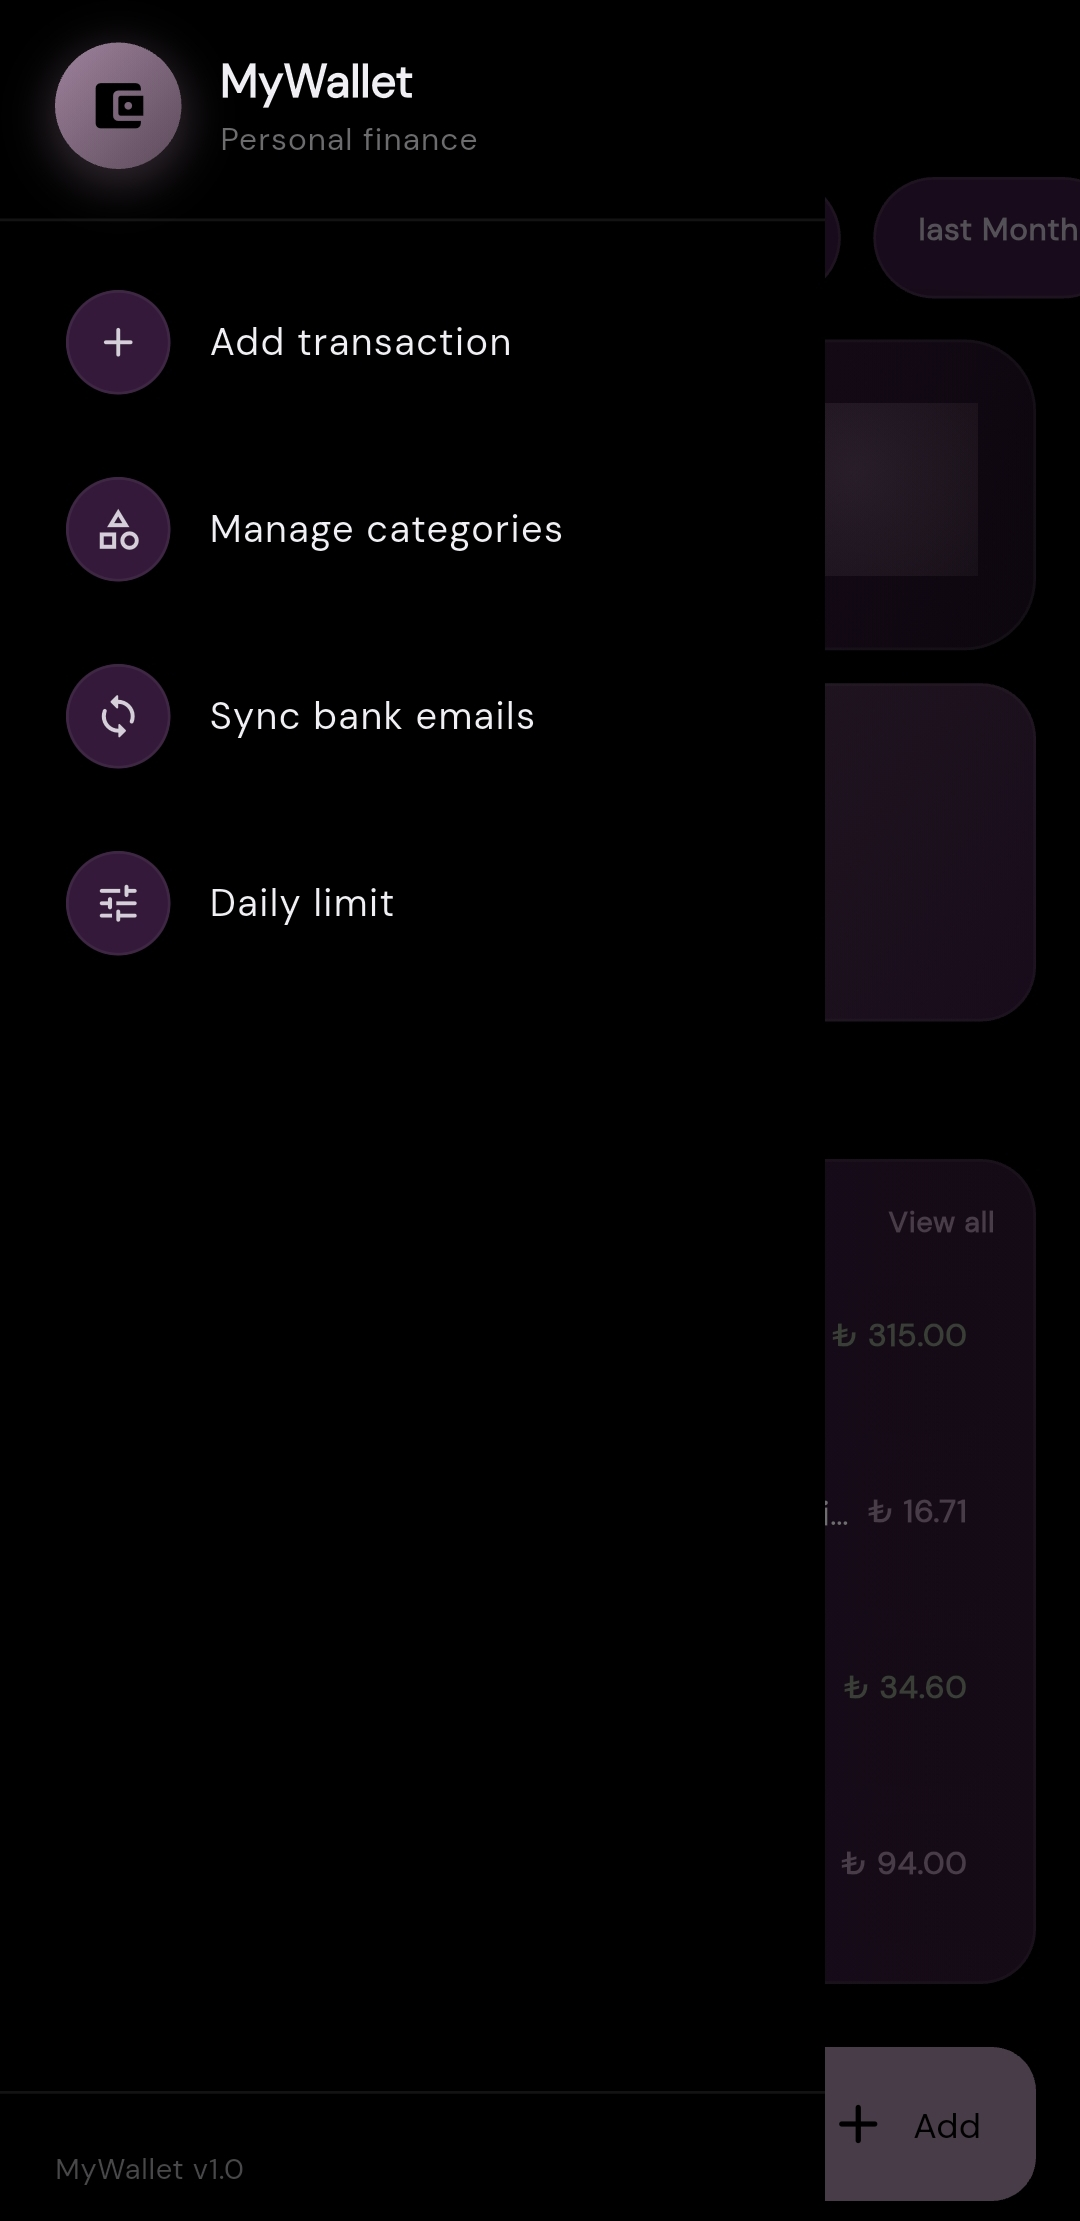
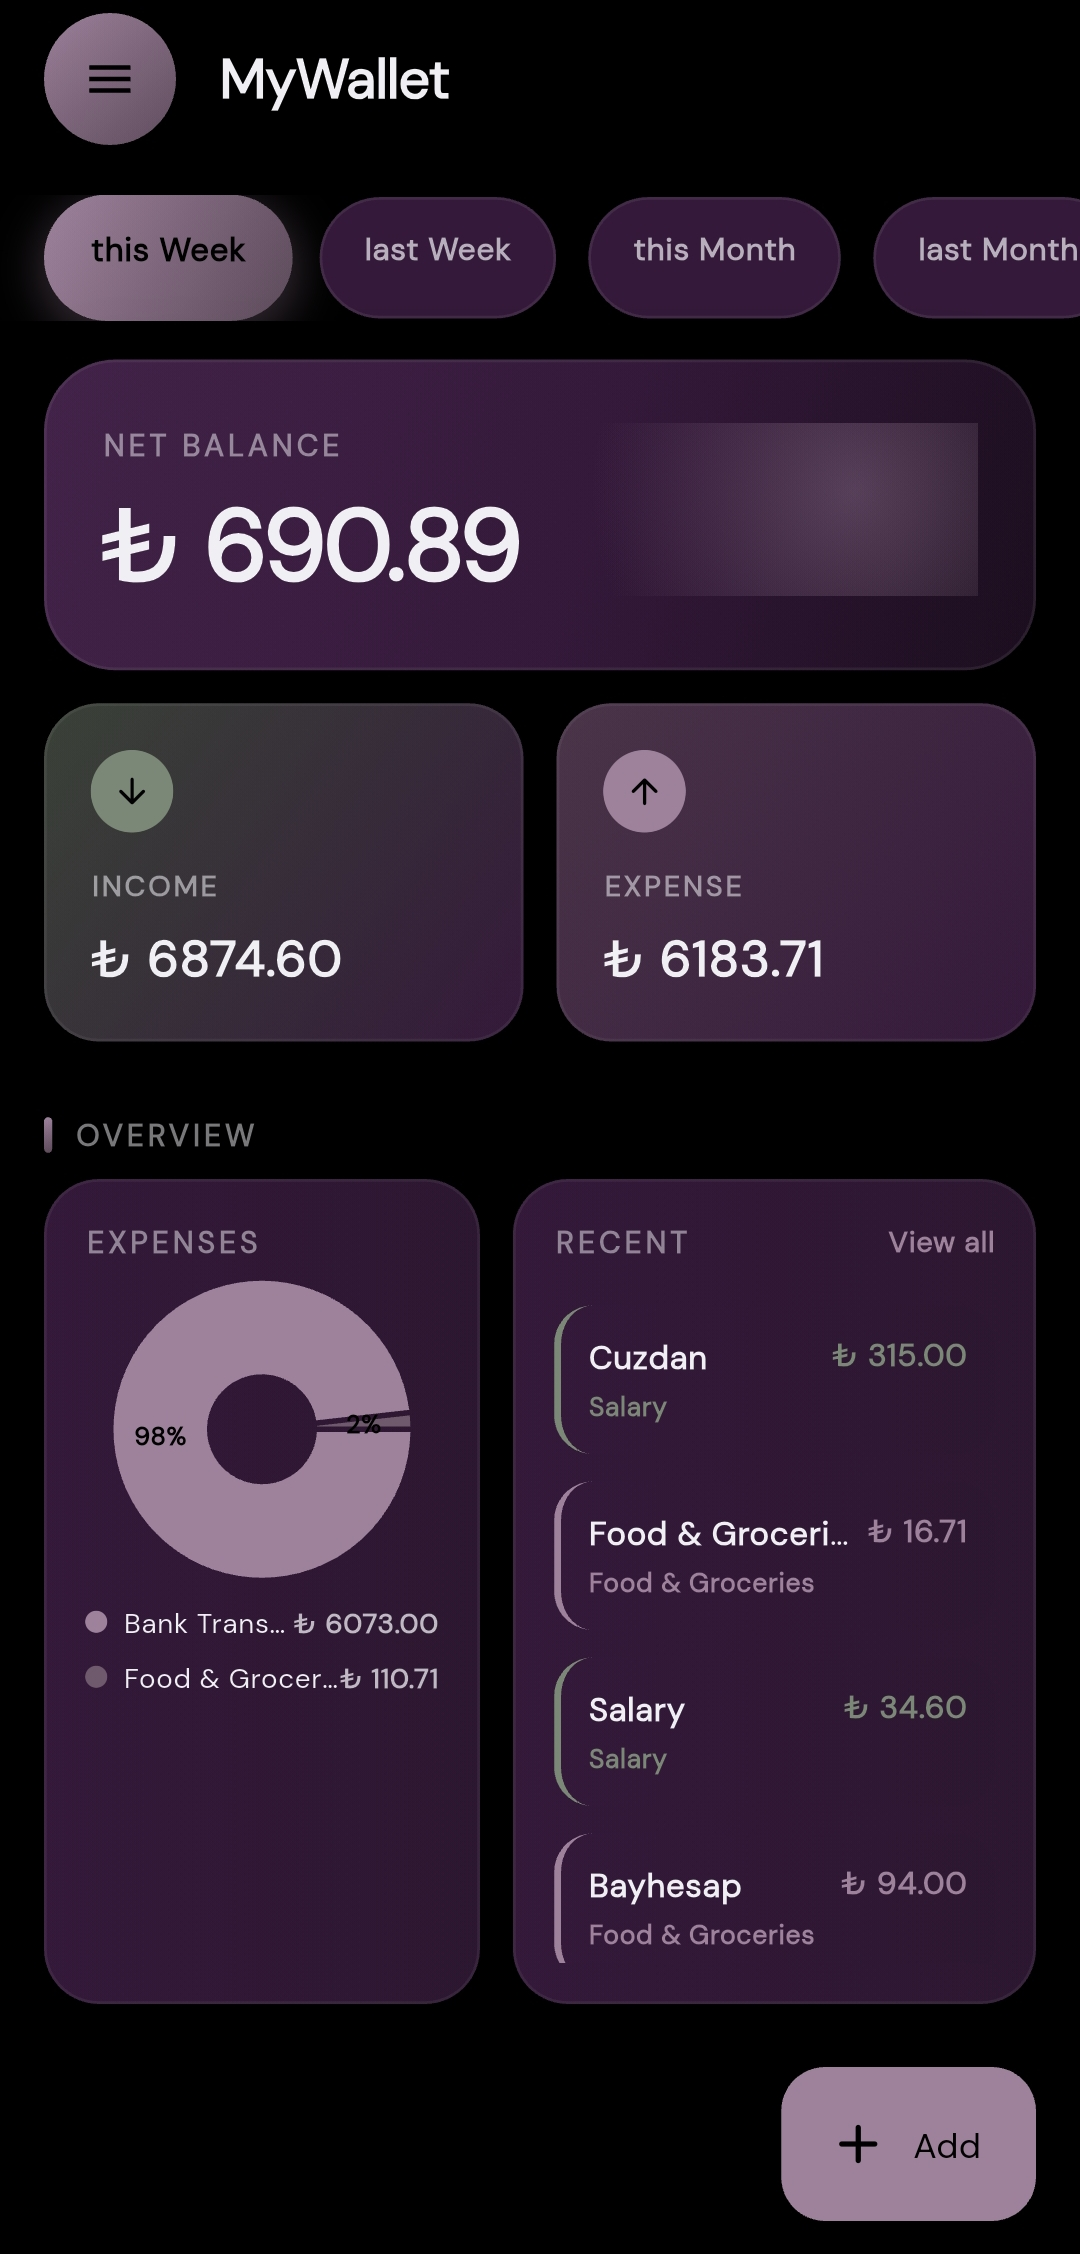
Initial commit: Ziraat bank IMAP parser, SQLite integration, and Riverpod UI

diff --git a/README.md b/README.md
@@ -1,17 +1,55 @@
-# mywallet
+# MyWallet - Ziraat Bank Automation 🏦📈
 
-A new Flutter project.
+A robust, offline-first personal finance tracker built with Flutter. MyWallet automates the tedious process of manual expense tracking by securely parsing unread bank transaction emails via IMAP, categorizing them, and updating a reactive dashboard in real-time.
 
-## Getting Started
+## ✨ Key Features
 
-This project is a starting point for a Flutter application.
+* **Automated Data Pipeline:** Integrates an IMAP client to fetch and securely read automated bank emails (Ziraat Bankası) entirely on the device.
+* **Smart Regex Parsing:** Sanitizes raw, unstructured HTML emails and extracts precise transaction data (Dates, Minor/Major Units, Senders/Receivers, FAST transfers) using strict Regular Expressions.
+* **Local Persistence Sandbox:** Utilizes an isolated SQLite database to store transactions and custom user categories offline, ensuring complete data privacy.
+* **Reactive Architecture:** Built on a Riverpod state management foundation. The UI, data repository layer, and background parsers remain perfectly synchronized without requiring manual state refreshes.
+* **Dynamic Categorization Engine:** Automatically intercepts, maps, and sorts incoming/outgoing automated transactions. It intelligently falls back to recognized internal database IDs to prevent UI state rendering errors.
 
-A few resources to get you started if this is your first Flutter project:
+## 📱 Screenshots
 
-- [Learn Flutter](https://docs.flutter.dev/get-started/learn-flutter)
-- [Write your first Flutter app](https://docs.flutter.dev/get-started/codelab)
-- [Flutter learning resources](https://docs.flutter.dev/reference/learning-resources)
+| Dashboard | Transaction History |
+| :---: | :---: |
+| ![Dashboard](ss1.jpg) | ![History](ss2.jpg) |
 
-For help getting started with Flutter development, view the
-[online documentation](https://docs.flutter.dev/), which offers tutorials,
-samples, guidance on mobile development, and a full API reference.
+## 🛠 Tech Stack
+
+* **Framework:** Flutter / Dart
+* **State Management:** Riverpod
+* **Database:** SQLite
+* **Email Client:** enough_mail (IMAP)
+
+## 🚀 Architectural Challenges Overcome
+
+Building this application required navigating complex mobile development hurdles:
+1. **R8 Compiler Stripping:** Resolved silent runtime failures in Android Release builds by overriding build.gradle rules to protect core data models.
+2. **State-Sync Fallbacks:** Engineered a bulletproof fallback mechanism for the UI to prevent unhandled ID exceptions when dynamically generating SQL database categories during background tasks.
+
+## ⚙ Getting Started
+
+### Prerequisites
+* Flutter SDK (latest stable)
+* An App Password generated from your email provider (e.g., Gmail) to allow secure IMAP access.
+
+### Installation
+
+1. Clone the repository:
+   git clone https://github.com/muhammedham/automated-finance-tracker.git
+
+2. Get dependencies:
+   flutter pub get
+
+3. Set up your environment variables (ensure your personal IMAP credentials are not hardcoded!).
+
+4. Run the app:
+   flutter run
+
+## 👤 Author
+
+**Muhammed Hamadin**
+* Software Engineer
+* GitHub: https://github.com/muhammedham
